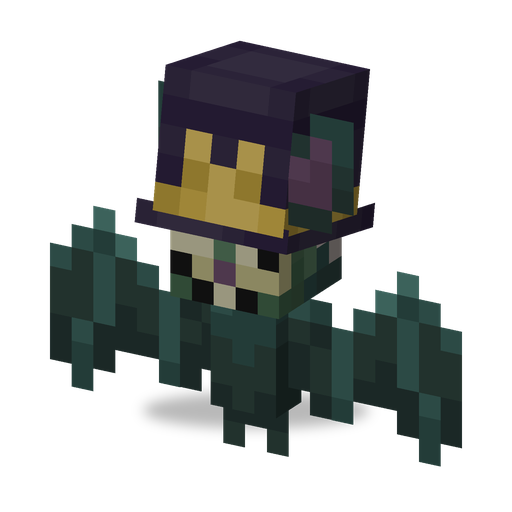
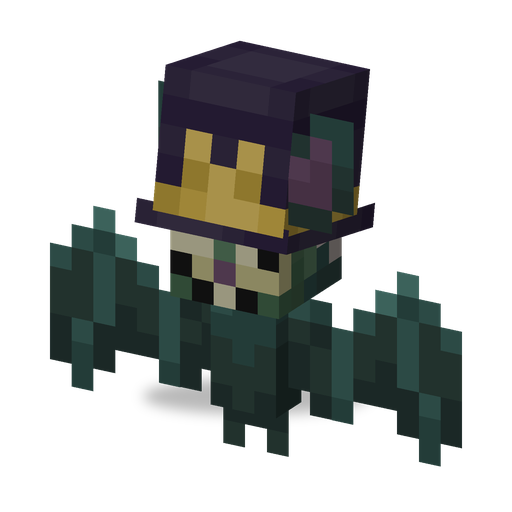
fix: flat model parts no longer flicker
A zero-thickness box gets both big faces in one plane, and entity_cutout
does not cull back faces, so where both texture squares are opaque the two
faces z-fight as the model moves. PlaneSide gives such a plane one side,
drawn from both sides: the side it is usually seen from (the top of a leaf,
the front of an eyebrow, the outer side of a side plate).

Fixed where both sides are opaque: Potling leaves; Cabbage-pult and
Kernel-pult springs and eyebrows; Repeater, Fume-shroom and gnome eyebrows;
Zombat wings, head and feet; Baron von Bats' body plates; Disco Zombie
glasses; Zombie Drone helmet. The Poppy Rattle uses PlaneSide.TOP now.
Chomper and Grave Buster overlap by a single pixel and are left as they are.

diff --git a/src/main/kotlin/dev/efureev/sproutsquad/client/model/PoppyRattleModel.kt b/src/main/kotlin/dev/efureev/sproutsquad/client/model/PoppyRattleModel.kt
@@ -16,10 +16,8 @@ import net.minecraft.client.model.geom.PartPose
 import net.minecraft.client.model.geom.builders.CubeListBuilder
 import net.minecraft.client.model.geom.builders.LayerDefinition
 import net.minecraft.client.model.geom.builders.MeshDefinition
-import net.minecraft.core.Direction
 import net.minecraft.util.Mth
 import joshxviii.plantz.renderer.entity.plant.PlantRenderState
-import java.util.EnumSet
 
 /**
  * Poppy Rattle: a poppy seed head with a face, a crown-shaped lid and four red petals.
@@ -83,14 +81,6 @@ class PoppyRattleModel(root: ModelPart) : SquadPlantModel(
         private const val PETAL_NIGHT_LIFT = -65f
         private const val PETAL_NIGHT_LENGTH = 0.75f
 
-        /**
-         * Petals and leaves are flat planes drawn with one face. A zero-thickness box has its top and bottom
-         * faces in the same plane, and the entity render type does not cull back faces, so both were drawn and
-         * fought over the depth buffer: the petals flickered between their two colours as the plant swayed.
-         * Model Y points down, so DOWN is the face seen from above: the first (lighter) square of the plane's UV.
-         */
-        private val ONE_FACE: Set<Direction> = EnumSet.of(Direction.DOWN)
-
         @JvmField val LAYER_LOCATION = ModelLayerLocation(pazResource("poppy_rattle"), "main")
 
         fun createBodyLayer(): LayerDefinition {
@@ -99,11 +89,11 @@ class PoppyRattleModel(root: ModelPart) : SquadPlantModel(
 
             body.addOrReplaceChild("stem", CubeListBuilder.create()
                 .texOffs(56, 8).addBox(-1f, -6f, -1f, 2f, 6f, 2f), PartPose.ZERO)
-            // Leaves are flat planes (one face, see ONE_FACE) at the foot of the stem, spread forward to the sides.
+            // Leaves are flat planes (one side, see PlaneSide) at the foot of the stem, spread forward to the sides.
             body.addOrReplaceChild("leaf_right", CubeListBuilder.create()
-                .texOffs(0, 33).addBox(0f, 0f, -2f, 7f, 0f, 4f, ONE_FACE), PartPose.offsetAndRotation(0.5f, -0.5f, 0f, 0f, 0.7f, -0.6f))
+                .texOffs(0, 33).addBox(0f, 0f, -2f, 7f, 0f, 4f, PlaneSide.TOP), PartPose.offsetAndRotation(0.5f, -0.5f, 0f, 0f, 0.7f, -0.6f))
             body.addOrReplaceChild("leaf_left", CubeListBuilder.create()
-                .texOffs(22, 33).addBox(-7f, 0f, -2f, 7f, 0f, 4f, ONE_FACE), PartPose.offsetAndRotation(-0.5f, -0.5f, 0f, 0f, -0.7f, 0.6f))
+                .texOffs(22, 33).addBox(-7f, 0f, -2f, 7f, 0f, 4f, PlaneSide.TOP), PartPose.offsetAndRotation(-0.5f, -0.5f, 0f, 0f, -0.7f, 0.6f))
 
             val pod = body.addOrReplaceChild("pod", CubeListBuilder.create()
                 .texOffs(32, 0).addBox(-3f, -1f, -3f, 6f, 1f, 6f)      // base
@@ -127,13 +117,13 @@ class PoppyRattleModel(root: ModelPart) : SquadPlantModel(
             // Petals point out of the base's corners (yaw ±45°, ±135°), opened as a cup by day (X −30°).
             // Spelled out one by one: tools/docs/render_character.py reads the literal numbers.
             pod.addOrReplaceChild("petal_fl", CubeListBuilder.create()
-                .texOffs(0, 27).addBox(-2.5f, 0f, -5f, 5f, 0f, 5f, ONE_FACE), PartPose.offsetAndRotation(-3f, 0f, -3f, -0.5236f, 0.7854f, 0f))
+                .texOffs(0, 27).addBox(-2.5f, 0f, -5f, 5f, 0f, 5f, PlaneSide.TOP), PartPose.offsetAndRotation(-3f, 0f, -3f, -0.5236f, 0.7854f, 0f))
             pod.addOrReplaceChild("petal_fr", CubeListBuilder.create()
-                .texOffs(0, 27).addBox(-2.5f, 0f, -5f, 5f, 0f, 5f, ONE_FACE), PartPose.offsetAndRotation(3f, 0f, -3f, -0.5236f, -0.7854f, 0f))
+                .texOffs(0, 27).addBox(-2.5f, 0f, -5f, 5f, 0f, 5f, PlaneSide.TOP), PartPose.offsetAndRotation(3f, 0f, -3f, -0.5236f, -0.7854f, 0f))
             pod.addOrReplaceChild("petal_bl", CubeListBuilder.create()
-                .texOffs(0, 27).addBox(-2.5f, 0f, -5f, 5f, 0f, 5f, ONE_FACE), PartPose.offsetAndRotation(-3f, 0f, 3f, -0.5236f, 2.3562f, 0f))
+                .texOffs(0, 27).addBox(-2.5f, 0f, -5f, 5f, 0f, 5f, PlaneSide.TOP), PartPose.offsetAndRotation(-3f, 0f, 3f, -0.5236f, 2.3562f, 0f))
             pod.addOrReplaceChild("petal_br", CubeListBuilder.create()
-                .texOffs(0, 27).addBox(-2.5f, 0f, -5f, 5f, 0f, 5f, ONE_FACE), PartPose.offsetAndRotation(3f, 0f, 3f, -0.5236f, -2.3562f, 0f))
+                .texOffs(0, 27).addBox(-2.5f, 0f, -5f, 5f, 0f, 5f, PlaneSide.TOP), PartPose.offsetAndRotation(3f, 0f, 3f, -0.5236f, -2.3562f, 0f))
             return LayerDefinition.create(mesh, 64, 64)
         }
     }

diff --git a/src/main/kotlin/dev/efureev/sproutsquad/client/model/PlaneSide.kt b/src/main/kotlin/dev/efureev/sproutsquad/client/model/PlaneSide.kt
@@ -1,0 +1,27 @@
+package dev.efureev.sproutsquad.client.model
+
+import net.minecraft.core.Direction
+import java.util.EnumSet
+
+/**
+ * One visible side for a flat (zero-thickness) box: `addBox(x, y, z, w, h, d, PlaneSide.TOP)`.
+ *
+ * A flat box gets both of its big faces in the same plane, and the entity render type (`entity_cutout`)
+ * does not cull back faces, so both are drawn and fight over the depth buffer: where both texture squares
+ * are opaque the plane flickers between them as the model moves. One face, drawn from both sides, does not.
+ *
+ * Model Y points down, so the side seen from above is [Direction.DOWN] (the plane's first UV square).
+ * Keep the side the plane is usually seen from: the top of a leaf, the front of an eyebrow.
+ */
+object PlaneSide {
+    /** A horizontal plane seen from above: its first UV square. */
+    @JvmField val TOP: Set<Direction> = EnumSet.of(Direction.DOWN)
+    /** A horizontal plane seen from below: its second UV square. */
+    @JvmField val BOTTOM: Set<Direction> = EnumSet.of(Direction.UP)
+    /** A vertical plane (depth 0) on the model's front side, where its face is. */
+    @JvmField val NORTH: Set<Direction> = EnumSet.of(Direction.NORTH)
+    @JvmField val SOUTH: Set<Direction> = EnumSet.of(Direction.SOUTH)
+    /** A vertical plane of width 0; on a mirrored box the two swap sides. */
+    @JvmField val WEST: Set<Direction> = EnumSet.of(Direction.WEST)
+    @JvmField val EAST: Set<Direction> = EnumSet.of(Direction.EAST)
+}

diff --git a/src/main/kotlin/dev/efureev/sproutsquad/client/model/PotlingModel.kt b/src/main/kotlin/dev/efureev/sproutsquad/client/model/PotlingModel.kt
@@ -49,10 +49,10 @@ class PotlingModel(root: ModelPart) : SquadPlantModel(
 
             // Leaves are flat planes; the smaller one points left, the bigger one waves up to the right.
             stem.addOrReplaceChild("leaf_left", CubeListBuilder.create()
-                .texOffs(40, 8).addBox(-5f, 0f, -1.5f, 5f, 0f, 3f),
+                .texOffs(40, 8).addBox(-5f, 0f, -1.5f, 5f, 0f, 3f, PlaneSide.TOP),
                 PartPose.offsetAndRotation(-0.5f, -4f, 0f, 0f, 0f, 0.45f))
             stem.addOrReplaceChild("leaf_right", CubeListBuilder.create()
-                .texOffs(40, 12).addBox(0f, 0f, -2f, 6f, 0f, 4f),
+                .texOffs(40, 12).addBox(0f, 0f, -2f, 6f, 0f, 4f, PlaneSide.TOP),
                 PartPose.offsetAndRotation(0.5f, -5f, 0f, 0f, 0f, -0.6f))
 
             return LayerDefinition.create(mesh, 64, 64)

diff --git a/src/main/java/joshxviii/plantz/model/zombies/ZombatModel.java b/src/main/java/joshxviii/plantz/model/zombies/ZombatModel.java
@@ -20,6 +20,7 @@ import net.minecraft.world.scores.criteria.ObjectiveCriteria;
 import org.jetbrains.annotations.NotNull;
 
 import static joshxviii.plantz.UtilsKt.pazResource;
+import dev.efureev.sproutsquad.client.model.PlaneSide; // Sprout Squad: one visible side for flat planes, see PlaneSide
 
 public class ZombatModel<S extends ZombatRenderState> extends EntityModel<S> {
 	public static final ModelLayerLocation LAYER_LOCATION = new ModelLayerLocation(pazResource("zombat"), "main");
@@ -52,8 +53,8 @@ public class ZombatModel<S extends ZombatRenderState> extends EntityModel<S> {
 		MeshDefinition meshdefinition = new MeshDefinition();
 		PartDefinition partdefinition = meshdefinition.getRoot();
 
-		PartDefinition head = partdefinition.addOrReplaceChild("head", CubeListBuilder.create().texOffs(1, 15).addBox(1.5F, -8.0F, 0.0F, 3.0F, 5.0F, 0.0F, new CubeDeformation(0.0F))
-				.texOffs(8, 15).addBox(-4.5F, -8.0F, 0.0F, 3.0F, 5.0F, 0.0F, new CubeDeformation(0.0F))
+		PartDefinition head = partdefinition.addOrReplaceChild("head", CubeListBuilder.create().texOffs(1, 15).addBox(1.5F, -8.0F, 0.0F, 3.0F, 5.0F, 0.0F, PlaneSide.NORTH)
+				.texOffs(8, 15).addBox(-4.5F, -8.0F, 0.0F, 3.0F, 5.0F, 0.0F, PlaneSide.NORTH)
 				.texOffs(0, 20).addBox(-2.5F, -5.0F, -2.5F, 5.0F, 5.0F, 5.0F, new CubeDeformation(0.0F)), PartPose.offset(0.0F, 17.0F, 0.0F));
 
 		PartDefinition top_hat = head.addOrReplaceChild("top_hat", CubeListBuilder.create().texOffs(0, 45).addBox(-2.5F, -5.0F, -2.5F, 5.0F, 5.0F, 5.0F, new CubeDeformation(0.5F))
@@ -61,15 +62,15 @@ public class ZombatModel<S extends ZombatRenderState> extends EntityModel<S> {
 
 		PartDefinition body = partdefinition.addOrReplaceChild("body", CubeListBuilder.create().texOffs(0, 0).addBox(-1.5F, 0.0F, -1.0F, 3.0F, 5.0F, 2.0F, new CubeDeformation(0.0F)), PartPose.offset(0.0F, 17.0F, 0.0F));
 
-		PartDefinition feet = body.addOrReplaceChild("feet", CubeListBuilder.create().texOffs(16, 16).addBox(-1.5F, 0.0F, 0.0F, 3.0F, 2.0F, 0.0F, new CubeDeformation(0.0F)), PartPose.offset(0.0F, 5.0F, 0.0F));
+		PartDefinition feet = body.addOrReplaceChild("feet", CubeListBuilder.create().texOffs(16, 16).addBox(-1.5F, 0.0F, 0.0F, 3.0F, 2.0F, 0.0F, PlaneSide.NORTH), PartPose.offset(0.0F, 5.0F, 0.0F));
 
-		PartDefinition left_wing = body.addOrReplaceChild("left_wing", CubeListBuilder.create().texOffs(12, 0).addBox(0.0F, -2.0F, 0.0F, 2.0F, 7.0F, 0.0F, new CubeDeformation(0.0F)), PartPose.offset(1.5F, 0.0F, 0.0F));
+		PartDefinition left_wing = body.addOrReplaceChild("left_wing", CubeListBuilder.create().texOffs(12, 0).addBox(0.0F, -2.0F, 0.0F, 2.0F, 7.0F, 0.0F, PlaneSide.NORTH), PartPose.offset(1.5F, 0.0F, 0.0F));
 
-		PartDefinition left_wing_tip = left_wing.addOrReplaceChild("left_wing_tip", CubeListBuilder.create().texOffs(16, 0).addBox(0.0F, -2.0F, 0.0F, 6.0F, 8.0F, 0.0F, new CubeDeformation(0.0F)), PartPose.offset(2.0F, 0.0F, 0.0F));
+		PartDefinition left_wing_tip = left_wing.addOrReplaceChild("left_wing_tip", CubeListBuilder.create().texOffs(16, 0).addBox(0.0F, -2.0F, 0.0F, 6.0F, 8.0F, 0.0F, PlaneSide.NORTH), PartPose.offset(2.0F, 0.0F, 0.0F));
 
-		PartDefinition right_wing = body.addOrReplaceChild("right_wing", CubeListBuilder.create().texOffs(12, 7).addBox(-2.0F, -2.0F, 0.0F, 2.0F, 7.0F, 0.0F, new CubeDeformation(0.0F)), PartPose.offset(-1.5F, 0.0F, 0.0F));
+		PartDefinition right_wing = body.addOrReplaceChild("right_wing", CubeListBuilder.create().texOffs(12, 7).addBox(-2.0F, -2.0F, 0.0F, 2.0F, 7.0F, 0.0F, PlaneSide.NORTH), PartPose.offset(-1.5F, 0.0F, 0.0F));
 
-		PartDefinition right_wing_tip = right_wing.addOrReplaceChild("right_wing_tip", CubeListBuilder.create().texOffs(16, 8).addBox(-6.0F, -2.0F, 0.0F, 6.0F, 8.0F, 0.0F, new CubeDeformation(0.0F)), PartPose.offset(-2.0F, 0.0F, 0.0F));
+		PartDefinition right_wing_tip = right_wing.addOrReplaceChild("right_wing_tip", CubeListBuilder.create().texOffs(16, 8).addBox(-6.0F, -2.0F, 0.0F, 6.0F, 8.0F, 0.0F, PlaneSide.NORTH), PartPose.offset(-2.0F, 0.0F, 0.0F));
 
 		return LayerDefinition.create(meshdefinition, 64, 64);
 	}

diff --git a/src/main/java/joshxviii/plantz/model/plants/CabbagePultModel.java b/src/main/java/joshxviii/plantz/model/plants/CabbagePultModel.java
@@ -9,6 +9,7 @@ import net.minecraft.client.model.geom.builders.*;
 import org.jetbrains.annotations.NotNull;
 
 import static joshxviii.plantz.UtilsKt.pazResource;
+import dev.efureev.sproutsquad.client.model.PlaneSide; // Sprout Squad: one visible side for flat planes, see PlaneSide
 
 public class CabbagePultModel extends PlantModel {
 	public static final ModelLayerLocation LAYER_LOCATION = new ModelLayerLocation(pazResource("cabbagepult"), "main");
@@ -62,19 +63,19 @@ public class CabbagePultModel extends PlantModel {
 
 		PartDefinition cube_r1 = head.addOrReplaceChild("cube_r1", CubeListBuilder.create().texOffs(25, 1).addBox(-6.0F, -5.7F, 0.0F, 13.0F, 11.0F, 0.0F, new CubeDeformation(0.0F)), PartPose.offsetAndRotation(-0.5F, -6.5F, -2.0F, 0.9599F, 0.0F, 0.0F));
 
-		PartDefinition cube_r2 = head.addOrReplaceChild("cube_r2", CubeListBuilder.create().texOffs(0, 1).addBox(-6.0F, -6.0F, 0.0F, 13.0F, 12.0F, 0.0F, new CubeDeformation(0.0F)), PartPose.offsetAndRotation(-0.5F, -5.5F, 3.0F, -0.7854F, 0.0F, 0.0F));
+		PartDefinition cube_r2 = head.addOrReplaceChild("cube_r2", CubeListBuilder.create().texOffs(0, 1).addBox(-6.0F, -6.0F, 0.0F, 13.0F, 12.0F, 0.0F, PlaneSide.NORTH), PartPose.offsetAndRotation(-0.5F, -5.5F, 3.0F, -0.7854F, 0.0F, 0.0F));
 
 		PartDefinition eyebrows = head.addOrReplaceChild("eyebrows", CubeListBuilder.create(), PartPose.offset(0.0F, -6.5F, 0.0F));
 
 		PartDefinition eyebrow_L = eyebrows.addOrReplaceChild("eyebrow_L", CubeListBuilder.create(), PartPose.offset(-2.0F, 0.0F, -5.125F));
 
-		PartDefinition cube_r3 = eyebrow_L.addOrReplaceChild("cube_r3", CubeListBuilder.create().texOffs(0, 20).addBox(-1.0F, -0.5F, 0.0F, 2.0F, 1.0F, 0.0F, new CubeDeformation(0.0F)), PartPose.offsetAndRotation(0.0F, 0.0F, 0.0F, 0.0F, 3.1416F, 0.0F));
+		PartDefinition cube_r3 = eyebrow_L.addOrReplaceChild("cube_r3", CubeListBuilder.create().texOffs(0, 20).addBox(-1.0F, -0.5F, 0.0F, 2.0F, 1.0F, 0.0F, PlaneSide.SOUTH), PartPose.offsetAndRotation(0.0F, 0.0F, 0.0F, 0.0F, 3.1416F, 0.0F));
 
-		PartDefinition eyebrow_R = eyebrows.addOrReplaceChild("eyebrow_R", CubeListBuilder.create().texOffs(0, 20).addBox(-1.0F, -0.5F, 0.0F, 2.0F, 1.0F, 0.0F, new CubeDeformation(0.0F)), PartPose.offset(2.0F, 0.0F, -5.125F));
+		PartDefinition eyebrow_R = eyebrows.addOrReplaceChild("eyebrow_R", CubeListBuilder.create().texOffs(0, 20).addBox(-1.0F, -0.5F, 0.0F, 2.0F, 1.0F, 0.0F, PlaneSide.NORTH), PartPose.offset(2.0F, 0.0F, -5.125F));
 
-		PartDefinition coil = head.addOrReplaceChild("coil", CubeListBuilder.create().texOffs(12, 46).addBox(0.0F, -10.0F, -1.0F, 0.0F, 10.0F, 2.0F, new CubeDeformation(0.0F)), PartPose.offset(0.0F, -12.0F, 0.0F));
+		PartDefinition coil = head.addOrReplaceChild("coil", CubeListBuilder.create().texOffs(12, 46).addBox(0.0F, -10.0F, -1.0F, 0.0F, 10.0F, 2.0F, PlaneSide.WEST), PartPose.offset(0.0F, -12.0F, 0.0F));
 
-		PartDefinition coil_2 = coil.addOrReplaceChild("coil_2", CubeListBuilder.create().texOffs(12, 46).addBox(0.0F, -10.0F, -1.0F, 0.0F, 10.0F, 2.0F, new CubeDeformation(0.0F)), PartPose.offset(0.0F, -10.0F, 0.0F));
+		PartDefinition coil_2 = coil.addOrReplaceChild("coil_2", CubeListBuilder.create().texOffs(12, 46).addBox(0.0F, -10.0F, -1.0F, 0.0F, 10.0F, 2.0F, PlaneSide.WEST), PartPose.offset(0.0F, -10.0F, 0.0F));
 
 		PartDefinition basket = coil_2.addOrReplaceChild("basket", CubeListBuilder.create().texOffs(0, 33).addBox(-4.0F, -8.0F, 2.0F, 8.0F, 8.0F, 1.0F, new CubeDeformation(0.0F))
 				.texOffs(1, 49).addBox(-4.0F, -7.0F, -2.0F, 1.0F, 6.0F, 4.0F, new CubeDeformation(0.0F))

diff --git a/src/main/java/joshxviii/plantz/model/plants/KernelPultModel.java b/src/main/java/joshxviii/plantz/model/plants/KernelPultModel.java
@@ -9,6 +9,7 @@ import net.minecraft.client.model.geom.builders.*;
 import org.jetbrains.annotations.NotNull;
 
 import static joshxviii.plantz.UtilsKt.pazResource;
+import dev.efureev.sproutsquad.client.model.PlaneSide; // Sprout Squad: one visible side for flat planes, see PlaneSide
 
 
 public class KernelPultModel extends PlantModel {
@@ -74,13 +75,13 @@ public class KernelPultModel extends PlantModel {
 
 		PartDefinition eyebrow_L = eyebrows.addOrReplaceChild("eyebrow_L", CubeListBuilder.create(), PartPose.offset(-2.0F, -3.5F, -5.125F));
 
-		PartDefinition cube_r1 = eyebrow_L.addOrReplaceChild("cube_r1", CubeListBuilder.create().texOffs(0, 29).addBox(-1.0F, -0.5F, 0.0F, 2.0F, 1.0F, 0.0F, new CubeDeformation(0.0F)), PartPose.offsetAndRotation(0.0F, 0.0F, 0.0F, 0.0F, 3.1416F, 0.0F));
+		PartDefinition cube_r1 = eyebrow_L.addOrReplaceChild("cube_r1", CubeListBuilder.create().texOffs(0, 29).addBox(-1.0F, -0.5F, 0.0F, 2.0F, 1.0F, 0.0F, PlaneSide.SOUTH), PartPose.offsetAndRotation(0.0F, 0.0F, 0.0F, 0.0F, 3.1416F, 0.0F));
 
-		PartDefinition eyebrow_R = eyebrows.addOrReplaceChild("eyebrow_R", CubeListBuilder.create().texOffs(0, 29).addBox(-1.0F, -0.5F, 0.0F, 2.0F, 1.0F, 0.0F, new CubeDeformation(0.0F)), PartPose.offset(2.0F, -3.5F, -5.125F));
+		PartDefinition eyebrow_R = eyebrows.addOrReplaceChild("eyebrow_R", CubeListBuilder.create().texOffs(0, 29).addBox(-1.0F, -0.5F, 0.0F, 2.0F, 1.0F, 0.0F, PlaneSide.NORTH), PartPose.offset(2.0F, -3.5F, -5.125F));
 
-		PartDefinition coil = head.addOrReplaceChild("coil", CubeListBuilder.create().texOffs(12, 55).addBox(0.0F, -10.0F, -1.0F, 0.0F, 10.0F, 2.0F, new CubeDeformation(0.0F)), PartPose.offset(0.0F, -16.0F, 0.0F));
+		PartDefinition coil = head.addOrReplaceChild("coil", CubeListBuilder.create().texOffs(12, 55).addBox(0.0F, -10.0F, -1.0F, 0.0F, 10.0F, 2.0F, PlaneSide.WEST), PartPose.offset(0.0F, -16.0F, 0.0F));
 
-		PartDefinition coil_2 = coil.addOrReplaceChild("coil_2", CubeListBuilder.create().texOffs(12, 55).addBox(0.0F, -10.0F, -1.0F, 0.0F, 10.0F, 2.0F, new CubeDeformation(0.0F)), PartPose.offset(0.0F, -10.0F, 0.0F));
+		PartDefinition coil_2 = coil.addOrReplaceChild("coil_2", CubeListBuilder.create().texOffs(12, 55).addBox(0.0F, -10.0F, -1.0F, 0.0F, 10.0F, 2.0F, PlaneSide.WEST), PartPose.offset(0.0F, -10.0F, 0.0F));
 
 		PartDefinition basket = coil_2.addOrReplaceChild("basket", CubeListBuilder.create().texOffs(0, 42).addBox(-4.0F, -8.0F, 2.0F, 8.0F, 8.0F, 1.0F, new CubeDeformation(0.0F))
 				.texOffs(1, 58).addBox(-4.0F, -7.0F, -2.0F, 1.0F, 6.0F, 4.0F, new CubeDeformation(0.0F))

diff --git a/src/main/java/joshxviii/plantz/model/zombies/BaronVonBatsModel.java b/src/main/java/joshxviii/plantz/model/zombies/BaronVonBatsModel.java
@@ -22,6 +22,7 @@ import net.minecraft.world.entity.HumanoidArm;
 import org.jetbrains.annotations.NotNull;
 
 import static joshxviii.plantz.UtilsKt.pazResource;
+import dev.efureev.sproutsquad.client.model.PlaneSide; // Sprout Squad: one visible side for flat planes, see PlaneSide
 
 public class BaronVonBatsModel<S extends PazZombieRenderState> extends PazZombieModel<S> {
 	public static final ModelLayerLocation LAYER_LOCATION = new ModelLayerLocation(pazResource("baron_von_bats"), "main");
@@ -65,9 +66,9 @@ public class BaronVonBatsModel<S extends PazZombieRenderState> extends PazZombie
 		PartDefinition body = root.addOrReplaceChild("body", CubeListBuilder.create().texOffs(16, 16).addBox(-4.0F, 0.0F, -2.0F, 8.0F, 12.0F, 4.0F, new CubeDeformation(0.0F))
 				.texOffs(16, 32).addBox(-4.0F, 0.0F, -2.0F, 8.0F, 12.0F, 4.0F, new CubeDeformation(0.25F)), PartPose.offset(0.0F, -4.6667F, 0.0F));
 
-		PartDefinition Body_r1 = body.addOrReplaceChild("Body_r1", CubeListBuilder.create().texOffs(68, 41).mirror().addBox(0.0F, -4.0F, -3.0F, 0.0F, 4.0F, 6.0F, new CubeDeformation(0.0F)).mirror(false), PartPose.offsetAndRotation(-4.0F, 0.0F, 0.0F, 0.0F, 0.0F, -0.7854F));
+		PartDefinition Body_r1 = body.addOrReplaceChild("Body_r1", CubeListBuilder.create().texOffs(68, 41).mirror().addBox(0.0F, -4.0F, -3.0F, 0.0F, 4.0F, 6.0F, PlaneSide.EAST).mirror(false), PartPose.offsetAndRotation(-4.0F, 0.0F, 0.0F, 0.0F, 0.0F, -0.7854F));
 
-		PartDefinition Body_r2 = body.addOrReplaceChild("Body_r2", CubeListBuilder.create().texOffs(80, 41).addBox(0.0F, -4.0F, -3.0F, 0.0F, 4.0F, 6.0F, new CubeDeformation(0.0F)), PartPose.offsetAndRotation(4.0F, 0.0F, 0.0F, 0.0F, 0.0F, 0.7854F));
+		PartDefinition Body_r2 = body.addOrReplaceChild("Body_r2", CubeListBuilder.create().texOffs(80, 41).addBox(0.0F, -4.0F, -3.0F, 0.0F, 4.0F, 6.0F, PlaneSide.EAST), PartPose.offsetAndRotation(4.0F, 0.0F, 0.0F, 0.0F, 0.0F, 0.7854F));
 
 		PartDefinition right_arm = root.addOrReplaceChild("right_arm", CubeListBuilder.create().texOffs(40, 16).addBox(-3.0F, -2.0F, -2.0F, 4.0F, 12.0F, 4.0F, new CubeDeformation(0.0F))
 				.texOffs(40, 32).addBox(-3.0F, -2.0F, -2.0F, 4.0F, 12.0F, 4.0F, new CubeDeformation(0.25F)), PartPose.offset(-5.0F, -2.6667F, 0.0F));

diff --git a/src/main/java/joshxviii/plantz/model/plants/RepeaterModel.java b/src/main/java/joshxviii/plantz/model/plants/RepeaterModel.java
@@ -9,6 +9,7 @@ import net.minecraft.client.model.geom.builders.*;
 import org.jetbrains.annotations.NotNull;
 
 import static joshxviii.plantz.UtilsKt.pazResource;
+import dev.efureev.sproutsquad.client.model.PlaneSide; // Sprout Squad: one visible side for flat planes, see PlaneSide
 
 public class RepeaterModel extends PlantModel {
 	public static final ModelLayerLocation LAYER_LOCATION = new ModelLayerLocation(pazResource("repeater"), "main");
@@ -85,9 +86,9 @@ public class RepeaterModel extends PlantModel {
 
 		PartDefinition eyebrow = head.addOrReplaceChild("eyebrow", CubeListBuilder.create(), PartPose.offset(0.0F, -5.25F, -3.1F));
 
-		PartDefinition left_brow = eyebrow.addOrReplaceChild("left_brow", CubeListBuilder.create().texOffs(36, 23).addBox(-1.5F, -0.5F, 0.0F, 3.0F, 1.0F, 0.0F, new CubeDeformation(0.0F)), PartPose.offset(2.0F, 0.0F, 0.0F));
+		PartDefinition left_brow = eyebrow.addOrReplaceChild("left_brow", CubeListBuilder.create().texOffs(36, 23).addBox(-1.5F, -0.5F, 0.0F, 3.0F, 1.0F, 0.0F, PlaneSide.NORTH), PartPose.offset(2.0F, 0.0F, 0.0F));
 
-		PartDefinition right_brow = eyebrow.addOrReplaceChild("right_brow", CubeListBuilder.create().texOffs(36, 23).mirror().addBox(-1.5F, -0.5F, 0.0F, 3.0F, 1.0F, 0.0F, new CubeDeformation(0.0F)).mirror(false), PartPose.offset(-2.0F, 0.0F, 0.0F));
+		PartDefinition right_brow = eyebrow.addOrReplaceChild("right_brow", CubeListBuilder.create().texOffs(36, 23).mirror().addBox(-1.5F, -0.5F, 0.0F, 3.0F, 1.0F, 0.0F, PlaneSide.NORTH).mirror(false), PartPose.offset(-2.0F, 0.0F, 0.0F));
 
 		PartDefinition barrel = head.addOrReplaceChild("barrel", CubeListBuilder.create().texOffs(18, 25).addBox(-2.5F, -2.5F, -2.0F, 5.0F, 5.0F, 2.0F, new CubeDeformation(0.0F)), PartPose.offset(0.0F, -2.0F, -5.0F));
 

diff --git a/src/main/java/joshxviii/plantz/model/GnomeModel.java b/src/main/java/joshxviii/plantz/model/GnomeModel.java
@@ -19,6 +19,7 @@ import org.jetbrains.annotations.NotNull;
 import org.jspecify.annotations.NonNull;
 
 import static joshxviii.plantz.UtilsKt.pazResource;
+import dev.efureev.sproutsquad.client.model.PlaneSide; // Sprout Squad: one visible side for flat planes, see PlaneSide
 
 public class GnomeModel<T extends GnomeRenderState> extends EntityModel<T> implements ArmedModel<T>, HeadedModel {
 	public static final ModelLayerLocation LAYER_LOCATION = new ModelLayerLocation(pazResource("gnome"), "main");
@@ -80,9 +81,9 @@ public class GnomeModel<T extends GnomeRenderState> extends EntityModel<T> imple
 
 		PartDefinition eyebrows = head.addOrReplaceChild("eyebrows", CubeListBuilder.create(), PartPose.offset(0.0F, -3.0F, -2.05F));
 
-		PartDefinition eyebrow_L = eyebrows.addOrReplaceChild("eyebrow_L", CubeListBuilder.create().texOffs(14, 12).addBox(-1.0F, -0.5F, 0.0F, 2.0F, 1.0F, 0.0F, new CubeDeformation(0.0F)), PartPose.offset(1.5F, 0.0F, -0.05F));
+		PartDefinition eyebrow_L = eyebrows.addOrReplaceChild("eyebrow_L", CubeListBuilder.create().texOffs(14, 12).addBox(-1.0F, -0.5F, 0.0F, 2.0F, 1.0F, 0.0F, PlaneSide.NORTH), PartPose.offset(1.5F, 0.0F, -0.05F));
 
-		PartDefinition eyebrow_R = eyebrows.addOrReplaceChild("eyebrow_R", CubeListBuilder.create().texOffs(18, 12).addBox(-1.0F, -0.5F, 0.0F, 2.0F, 1.0F, 0.0F, new CubeDeformation(0.0F)), PartPose.offset(-1.5F, 0.0F, -0.05F));
+		PartDefinition eyebrow_R = eyebrows.addOrReplaceChild("eyebrow_R", CubeListBuilder.create().texOffs(18, 12).addBox(-1.0F, -0.5F, 0.0F, 2.0F, 1.0F, 0.0F, PlaneSide.NORTH), PartPose.offset(-1.5F, 0.0F, -0.05F));
 
 		PartDefinition arms = torso.addOrReplaceChild("arms", CubeListBuilder.create(), PartPose.offset(0.0F, -3.0F, 0.0F));
 

diff --git a/src/main/java/joshxviii/plantz/model/zombies/DiscoZombieModel.java b/src/main/java/joshxviii/plantz/model/zombies/DiscoZombieModel.java
@@ -16,6 +16,7 @@ import net.minecraft.client.model.geom.builders.*;
 import org.jetbrains.annotations.NotNull;
 
 import static joshxviii.plantz.UtilsKt.pazResource;
+import dev.efureev.sproutsquad.client.model.PlaneSide; // Sprout Squad: one visible side for flat planes, see PlaneSide
 
 public class DiscoZombieModel<S extends PazZombieRenderState> extends PazZombieModel<S> {
 	public static final ModelLayerLocation LAYER_LOCATION = new ModelLayerLocation(pazResource("disco_zombie"), "main");
@@ -55,7 +56,7 @@ public class DiscoZombieModel<S extends PazZombieRenderState> extends PazZombieM
 		PartDefinition face = head.addOrReplaceChild("face", CubeListBuilder.create().texOffs(0, 0).addBox(-4.0F, -8.0F, -4.0F, 8.0F, 8.0F, 8.0F, new CubeDeformation(0.0F))
 				.texOffs(32, 0).addBox(-4.0F, -8.0F, -4.0F, 8.0F, 8.0F, 8.0F, new CubeDeformation(0.5F)), PartPose.offset(0.0F, 0.0F, 0.0F));
 
-		PartDefinition glasses = face.addOrReplaceChild("glasses", CubeListBuilder.create().texOffs(64, 8).addBox(-6.0F, -8.0F, -4.25F, 12.0F, 8.0F, 0.0F, new CubeDeformation(0.0F)), PartPose.offset(0.0F, 0.0F, 0.0F));
+		PartDefinition glasses = face.addOrReplaceChild("glasses", CubeListBuilder.create().texOffs(64, 8).addBox(-6.0F, -8.0F, -4.25F, 12.0F, 8.0F, 0.0F, PlaneSide.NORTH), PartPose.offset(0.0F, 0.0F, 0.0F));
 
 		PartDefinition left_arm = root.addOrReplaceChild("left_arm", CubeListBuilder.create().texOffs(40, 16).addBox(0.0F, -2.0F, -2.0F, 3.0F, 12.0F, 4.0F, new CubeDeformation(0.0F))
 				.texOffs(56, 16).addBox(0.0F, -2.0F, -2.0F, 3.0F, 12.0F, 4.0F, new CubeDeformation(0.25F)), PartPose.offset(4.0F, -2.0F, 0.0F));

diff --git a/src/main/java/joshxviii/plantz/model/plants/FumeShroomModel.java b/src/main/java/joshxviii/plantz/model/plants/FumeShroomModel.java
@@ -9,6 +9,7 @@ import net.minecraft.client.model.geom.builders.*;
 import org.jetbrains.annotations.NotNull;
 
 import static joshxviii.plantz.UtilsKt.pazResource;
+import dev.efureev.sproutsquad.client.model.PlaneSide; // Sprout Squad: one visible side for flat planes, see PlaneSide
 
 
 public class FumeShroomModel extends PlantModel {
@@ -50,9 +51,9 @@ public class FumeShroomModel extends PlantModel {
 
 		PartDefinition eyebrows = head.addOrReplaceChild("eyebrows", CubeListBuilder.create(), PartPose.offset(0.0F, -4.5F, -5.1F));
 
-		PartDefinition eyebrow_L = eyebrows.addOrReplaceChild("eyebrow_L", CubeListBuilder.create().texOffs(2, 2).addBox(-1.0F, -0.5F, 0.0F, 2.0F, 1.0F, 0.0F, new CubeDeformation(0.0F)), PartPose.offset(3.0F, 0.0F, 0.0F));
+		PartDefinition eyebrow_L = eyebrows.addOrReplaceChild("eyebrow_L", CubeListBuilder.create().texOffs(2, 2).addBox(-1.0F, -0.5F, 0.0F, 2.0F, 1.0F, 0.0F, PlaneSide.NORTH), PartPose.offset(3.0F, 0.0F, 0.0F));
 
-		PartDefinition eyebrow_R = eyebrows.addOrReplaceChild("eyebrow_R", CubeListBuilder.create().texOffs(2, 2).addBox(-1.0F, -0.5F, 0.0F, 2.0F, 1.0F, 0.0F, new CubeDeformation(0.0F)), PartPose.offset(-3.0F, 0.0F, 0.0F));
+		PartDefinition eyebrow_R = eyebrows.addOrReplaceChild("eyebrow_R", CubeListBuilder.create().texOffs(2, 2).addBox(-1.0F, -0.5F, 0.0F, 2.0F, 1.0F, 0.0F, PlaneSide.NORTH), PartPose.offset(-3.0F, 0.0F, 0.0F));
 
 		PartDefinition cap = head.addOrReplaceChild("cap", CubeListBuilder.create().texOffs(0, 0).addBox(-7.0F, -8.75F, -7.0F, 14.0F, 9.0F, 14.0F, new CubeDeformation(0.0F)), PartPose.offset(0.0F, -5.25F, 0.0F));
 

diff --git a/src/main/java/joshxviii/plantz/model/blueprint_machines/ZombieDroneModel.java b/src/main/java/joshxviii/plantz/model/blueprint_machines/ZombieDroneModel.java
@@ -12,6 +12,7 @@ import net.minecraft.util.Mth;
 import org.jspecify.annotations.NonNull;
 
 import static joshxviii.plantz.UtilsKt.pazResource;
+import dev.efureev.sproutsquad.client.model.PlaneSide; // Sprout Squad: one visible side for flat planes, see PlaneSide
 
 public class ZombieDroneModel<T extends BlueprintMachineRenderState> extends EntityModel<T> {
 	public static final ModelLayerLocation LAYER_LOCATION = new ModelLayerLocation(pazResource("drone_turret"), "main");
@@ -45,7 +46,7 @@ public class ZombieDroneModel<T extends BlueprintMachineRenderState> extends Ent
 		PartDefinition hat = body.addOrReplaceChild("hat", CubeListBuilder.create().texOffs(0, 0).addBox(-1.0F, -2.0F, -1.0F, 2.0F, 2.0F, 2.0F, new CubeDeformation(0.0F)), PartPose.offset(0.0F, 0.0F, 0.0F));
 
 		PartDefinition helmet_r1 = hat.addOrReplaceChild("helmet_r1", CubeListBuilder.create().texOffs(0, 16).addBox(-4.5F, -4.0F, -4.5F, 9.0F, 4.0F, 9.0F, new CubeDeformation(0.0F))
-				.texOffs(16, 0).addBox(-4.5F, 0.0F, -6.5F, 9.0F, 0.0F, 12.0F, new CubeDeformation(0.0F))
+				.texOffs(16, 0).addBox(-4.5F, 0.0F, -6.5F, 9.0F, 0.0F, 12.0F, PlaneSide.TOP)
 				.texOffs(0, 34).addBox(-1.0F, -8.0F, -1.0F, 2.0F, 2.0F, 2.0F, new CubeDeformation(0.0F))
 				.texOffs(3, 38).addBox(-0.5F, -6.0F, 0.0F, 1.0F, 1.0F, 0.0F, new CubeDeformation(0.0F))
 				.texOffs(0, 0).addBox(-1.5F, -5.0F, -5.5F, 3.0F, 5.0F, 11.0F, new CubeDeformation(0.0F)), PartPose.offsetAndRotation(0.0F, -0.75F, 0.0F, -0.0872F, 0.0038F, 0.0435F));
